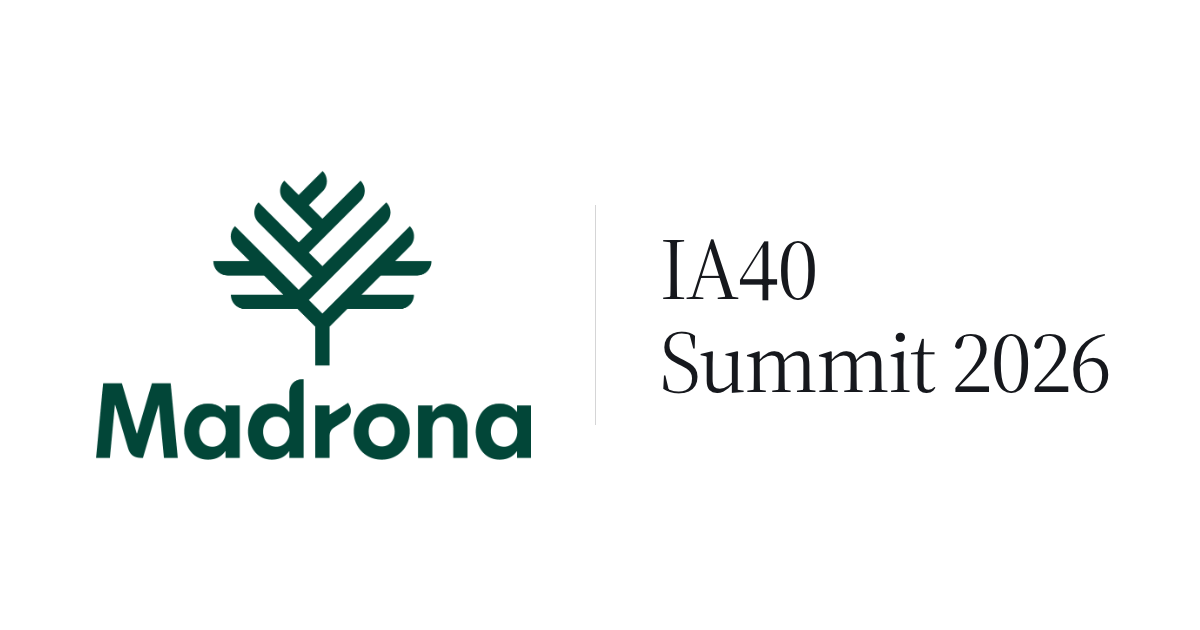
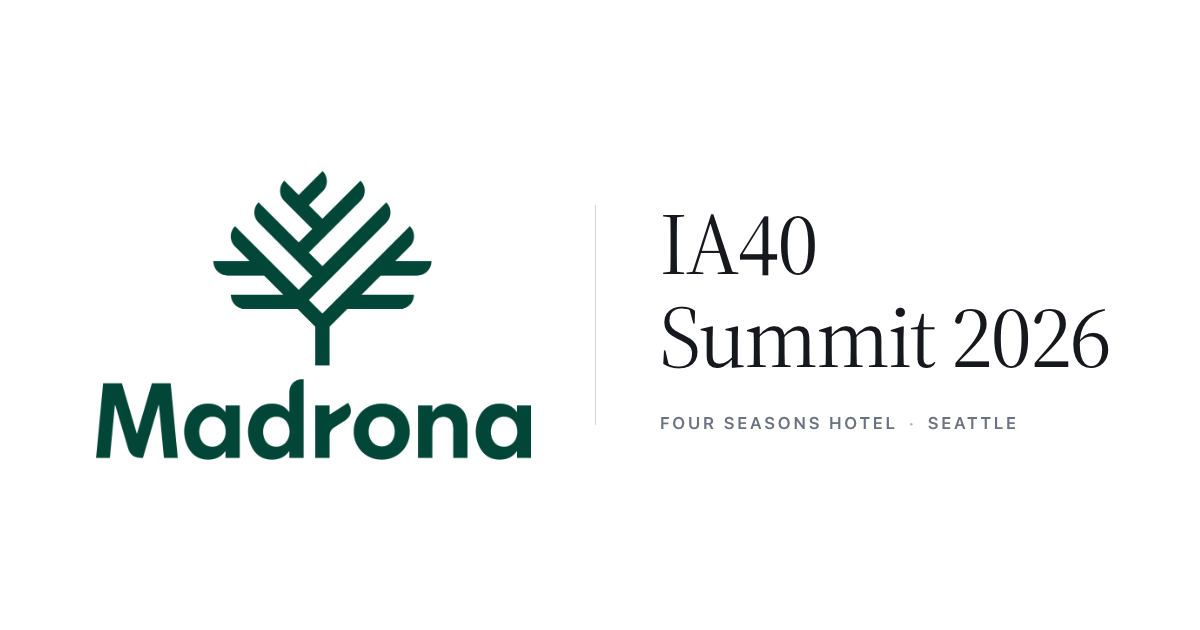
blog/madrona: add venue line to OG card

Changed region(s): [[0.555, 0.3317, 0.925, 0.6333], [0.555, 0.6635, 0.74, 0.6937], [0.7708, 0.6635, 0.8325, 0.6937]]

diff --git a/assets/blog/2026/madrona/og-card.html b/assets/blog/2026/madrona/og-card.html
@@ -29,6 +29,8 @@
     font-size: 17px; font-weight: 600; letter-spacing: .16em;
     text-transform: uppercase; color: var(--ink-3);
   }
+  .eyebrow { margin-top: 30px; }
+  .eyebrow .sep { opacity: .55; margin: 0 11px; }
   h1 {
     font-family: var(--serif); font-weight: 400;
     font-size: 88px; line-height: 1.06; letter-spacing: -.02em;
@@ -42,6 +44,7 @@
   <div class="rule"></div>
   <div>
     <h1>IA40<br>Summit 2026</h1>
+    <div class="eyebrow">Four Seasons Hotel<span class="sep">·</span>Seattle</div>
   </div>
 
 </body>
